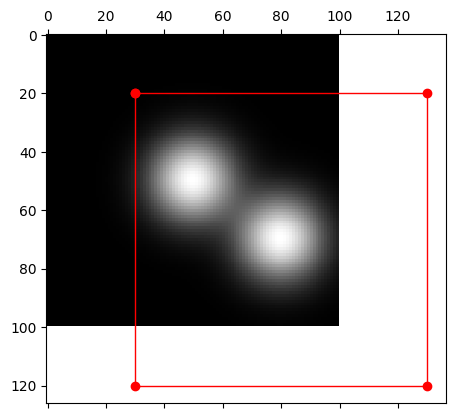
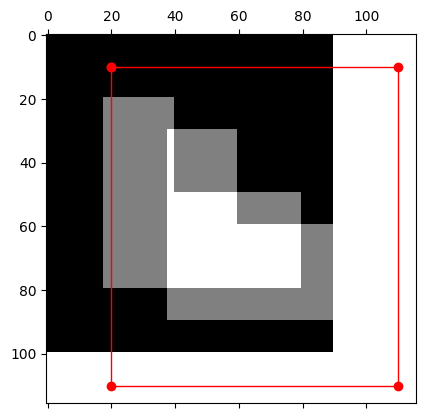
update examples and readme

diff --git a/README.md b/README.md
@@ -70,18 +70,16 @@ from dense_image_aligment.transformations import TranslationTransformation
 2. Prepare the Input and Template images.
 
 ```python
-def create_simple_gauss(mu, sigma, shape):
-    x = np.linspace(0, 1, shape[0])
-    y = np.linspace(0, 1, shape[1])
+def create_simple_L(shape):
+    mask = np.zeros(shape, dtype=np.float32)
+    mask[shape[0] // 5 : shape[0] * 4 // 5, shape[1] // 5 : shape[0] * 2 // 5] = 1.
+    mask[shape[0] // 2 : shape[0] * 4 // 5, shape[1] // 5 : shape[0] * 4 // 5] = 1.
 
-    xx, yy = np.meshgrid(x, y, indexing='xy')
-
-    z = np.exp(-( (xx - mu[0])**2 / (sigma[0]**2) +  (yy - mu[1])**2 / (sigma[1]**2)) / 2) / (np.sqrt(sigma[0]**2 + sigma[1]**2) * np.sqrt(2 * np.pi))
-    return z
+    return mask
 
 
-template = create_simple_gauss([0.5, 0.5], [0.1, 0.1], [100, 100])
-image = create_simple_gauss([0.5, 0.5], [0.1, 0.1], [100, 100])
+template = create_simple_L([100, 90])
+image = create_simple_L([100, 90])
 
 ```
 
@@ -91,7 +89,7 @@ image = create_simple_gauss([0.5, 0.5], [0.1, 0.1], [100, 100])
 method, params = image_aligment_method(key='forward_additive')
 params['alpha'] = 1.0
 params['max_iterations'] = 100
-params['p_init'] = np.array([30., 20.])
+params['p_init'] = np.array([20., 10.])
 params['convergence_threshold'] = 1e-8
 
 transform = TranslationTransformation(params['p_init'])
@@ -100,7 +98,7 @@ transform = TranslationTransformation(params['p_init'])
 The function image_aligment_method return reference for choisen method function and the set of its default hyperparameters. In that case we have the set of params:
 
 - p_init:
-$`\begin{bmatrix} 30. \\ 20 \end{bmatrix}`$
+$`\begin{bmatrix} 20. \\ 10 \end{bmatrix}`$
 - max_iterations: 100
 - convergence_threshold: 1e-8
 - verbose: True
